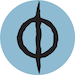
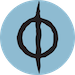
changed mana again

diff --git a/mtg/mtg.py b/mtg/mtg.py
@@ -9,6 +9,11 @@ import sys
 import aiohttp
 from PIL import Image
 from io import BytesIO, StringIO
+try:   # check if BeautifulSoup4 is installed
+    from bs4 import BeautifulSoup
+    soupAvailable = True
+except ImportError:
+    soupAvailable = False
 
 class MTG:
 	"""Fetch info about a MTG card"""
@@ -16,7 +21,7 @@ class MTG:
 	def __init__(self, bot):
 		self.bot = bot
 		self.cards = dataIO.load_json('data/mtg/cards.json')['cards']
-		self.symbols = ["1", "2", "3", "4", "5", "6", "7", "8", "9", "10", "11", "12", "13", "14", "15", "16", "100","1000000", "B", "C", "G", "R", "U", "W", "X", "BP", "GP", "RP", "UP", "WP", "BG", "BR", "UB", "WB", "RG", "GU", "GW", "UR", "RW", "WU", "SNOW", "HALFB", "HALFG", "HALFR", "HALFU", "HALFW", "INFINITY"]
+		self.symbols = ["1", "2", "3", "4", "5", "6", "7", "8", "9", "10", "11", "12", "13", "14", "15", "16", "1000000","B", "C", "G", "R", "U", "W", "X", "Y", "Z", "BP", "GP", "RP", "UP", "WP", "BG", "BR", "UB", "WB", "RG", "GU", "GW", "UR", "RW", "WU", "S", "1/2", "1/2R", "1/2W", "OW"]
 		
 		
 	async def _update_sets(self):
@@ -87,9 +92,9 @@ class MTG:
 		else:
 			message = '`A card called '+ card + ' was not found.`'
 			await self.bot.say(message)
-			
-	@commands.command(pass_context=True, no_pm=False, name='Mana', aliases=['mana'])
-	async def _mana(self, ctx ,*, mana):
+	
+	@commands.group(pass_context=True, no_pm=False, name='Mana', aliases=['mana'])	
+	async def mana(self, ctx ,*, mana):
 		"""Creates and outputs the given mana combo"""
 		mana_symbols = mana.split(" ")
 		symbols = []
@@ -110,11 +115,16 @@ class MTG:
 				self.bot.say("Something went terribly wrong.")
 		else:
 			self.bot.say("There were no valid symbols.")
+			
+	@mana.command(no_pm=True, name="update")
+	asysnc def update(self):
+		"""Updates Mana images"""
+		self._update_mana_symbols(self)
 		
 	def _resize(self, image, height):
 		w = image.size[0]
 		h = image.size[1]
-		image.resize
+		img = img.resize((50,50), Image.LANCZOS)
 		
 		
 
@@ -184,26 +194,28 @@ class MTG:
 		return match, cards
 		
 	async def _update_mana_symbols(self):
-		payload = {}
-		list = ["1", "2", "3", "4", "5", "6", "7", "8", "9", "10", "11", "12", "13", "14", "15", "16", "1000000","B", "C", "G", "R", "U", "W", "X", "BP", "GP", "RP", "UP", "WP", "BG", "BR", "UB", "WB", "RG", "GU", "GW", "UR", "RW", "WU", "SNOW"]
-		url = "http://gatherer.wizards.com/Handlers/Image.ashx?"
+		list = ["1", "2", "3", "4", "5", "6", "7", "8", "9", "10", "11", "12", "13", "14", "15", "16", "1000000","B", "C", "G", "R", "U", "W", "X", "Y", "Z", "BP", "GP", "RP", "UP", "WP", "BG", "BR", "UB", "WB", "RG", "GU", "GW", "UR", "RW", "WU", "S", "%C2%BD", "%C2%BDR", "%C2%BDW", "Old_W"]
+		url = "http://mtgsalvation.gamepedia.com/File:"
 		conn = aiohttp.TCPConnector(verify_ssl=False)
 		session = aiohttp.ClientSession(connector=conn)
 		headers = {'user-agent': 'Red-cog/1.0'}
 		for symbol in list:
-			payload["name"] = symbol
-			payload["type"] = "symbol"
-			payload["size"] = "large"
 			resize = True
 			if "P" in symbol or "C" in symbol:
 				payload["size"] = "medium"
 			async with session.get(url ,params=payload,headers=headers) as r:
-				data = await r.read()
-				print(symbol)
-				stream = BytesIO(data)
-				img = Image.open(stream)
-				img = img.resize((25,25), Image.LANCZOS)
-				img.save("mtg/data/mtg/mana/" + symbol + ".png")
+				soup = BeautifulSoup(await r.text(), "html.parser")
+				link = soup.find('div', attrs={'class': "fullImageLink"}).find("a")["href"]
+				async with session.get(link, headers=headers) as resp:
+					data = await resp.read()
+					stream = BytesIO(data)
+					if "%C2%BD" in symbol:
+						symbol = symbol.replace("%C2%BD", "1/2")
+					elif "Old_W" == symbol:
+						symbol = "OW"
+					cairosvg.svg2png(bytestring=stream, write_to="data/mtg/mana/" + symbol + ".png")
+					
+			session.close()
 
 
 	@commands.command(no_pm=True, name='MTGUpdate', aliases=['MTGU', 'mtgu', "MtgU", "Mtgu"])
@@ -249,7 +261,10 @@ def check_file():
 		session.close()
 		
 def setup(bot):
-	check_folder()
-	check_file()
-	cog = MTG(bot)
-	bot.add_cog(cog)
+	if not soupAvailable:
+        raise RuntimeError("You need to run \'pip3 install beautifulsoup4\' in command prompt.")
+    else:
+		check_folder()
+		check_file()
+		cog = MTG(bot)
+		bot.add_cog(cog)

diff --git a/mod/mod.py b/mod/mod.py
@@ -1209,26 +1209,26 @@ class Mod:
 		else:
 			raise CaseMessageNotFound()
 		
-	def edit_filter(self, w, message):
+	"""def edit_filter(self, w, message):
 		message.content = message.content.replace(w, "*" * randint(2,6))
 		print (message.content)
-		return str(message)
+		return str(message)"""
 
 	async def check_filter(self, message):
 		server = message.server
 		if server.id in self.filter.keys():
 			for w in self.filter[server.id]:
 				if w in message.content.lower():
-					#try:
-					print ("Attempting to filter...")
-					await self.bot.edit_message(message, self.edit_filter(w, message))
-					logger.info("Message edited in server {}."
-								"Filtered: {}"
-								"".format(server.id, w))
+					try:
+						print ("Attempting to filter...")
+						await self.bot.delete_message(message)
+						logger.info("Message edited in server {}."
+									"Filtered: {}"
+									"".format(server.id, w))
 					return True
-					"""except:
+					except:
 						print ("Something went wrong while trying to filter.")
-						pass"""
+						pass
 		return False
 
 	async def check_duplicates(self, message):
@@ -1313,11 +1313,11 @@ class Mod:
 			return
 		elif self.is_mod_or_superior(message):
 			return
-		edited = await self.check_filter(message)
+		deleted = await self.check_filter(message)
 		if not edited:
-			edited = await self.check_duplicates(message)
+			deleted = await self.check_duplicates(message)
 		if not edited:
-			edited = await self.check_mention_spam(message)
+			deleted = await self.check_mention_spam(message)
 
 	async def on_member_ban(self, member):
 		if member not in self._tmp_banned_cache:
